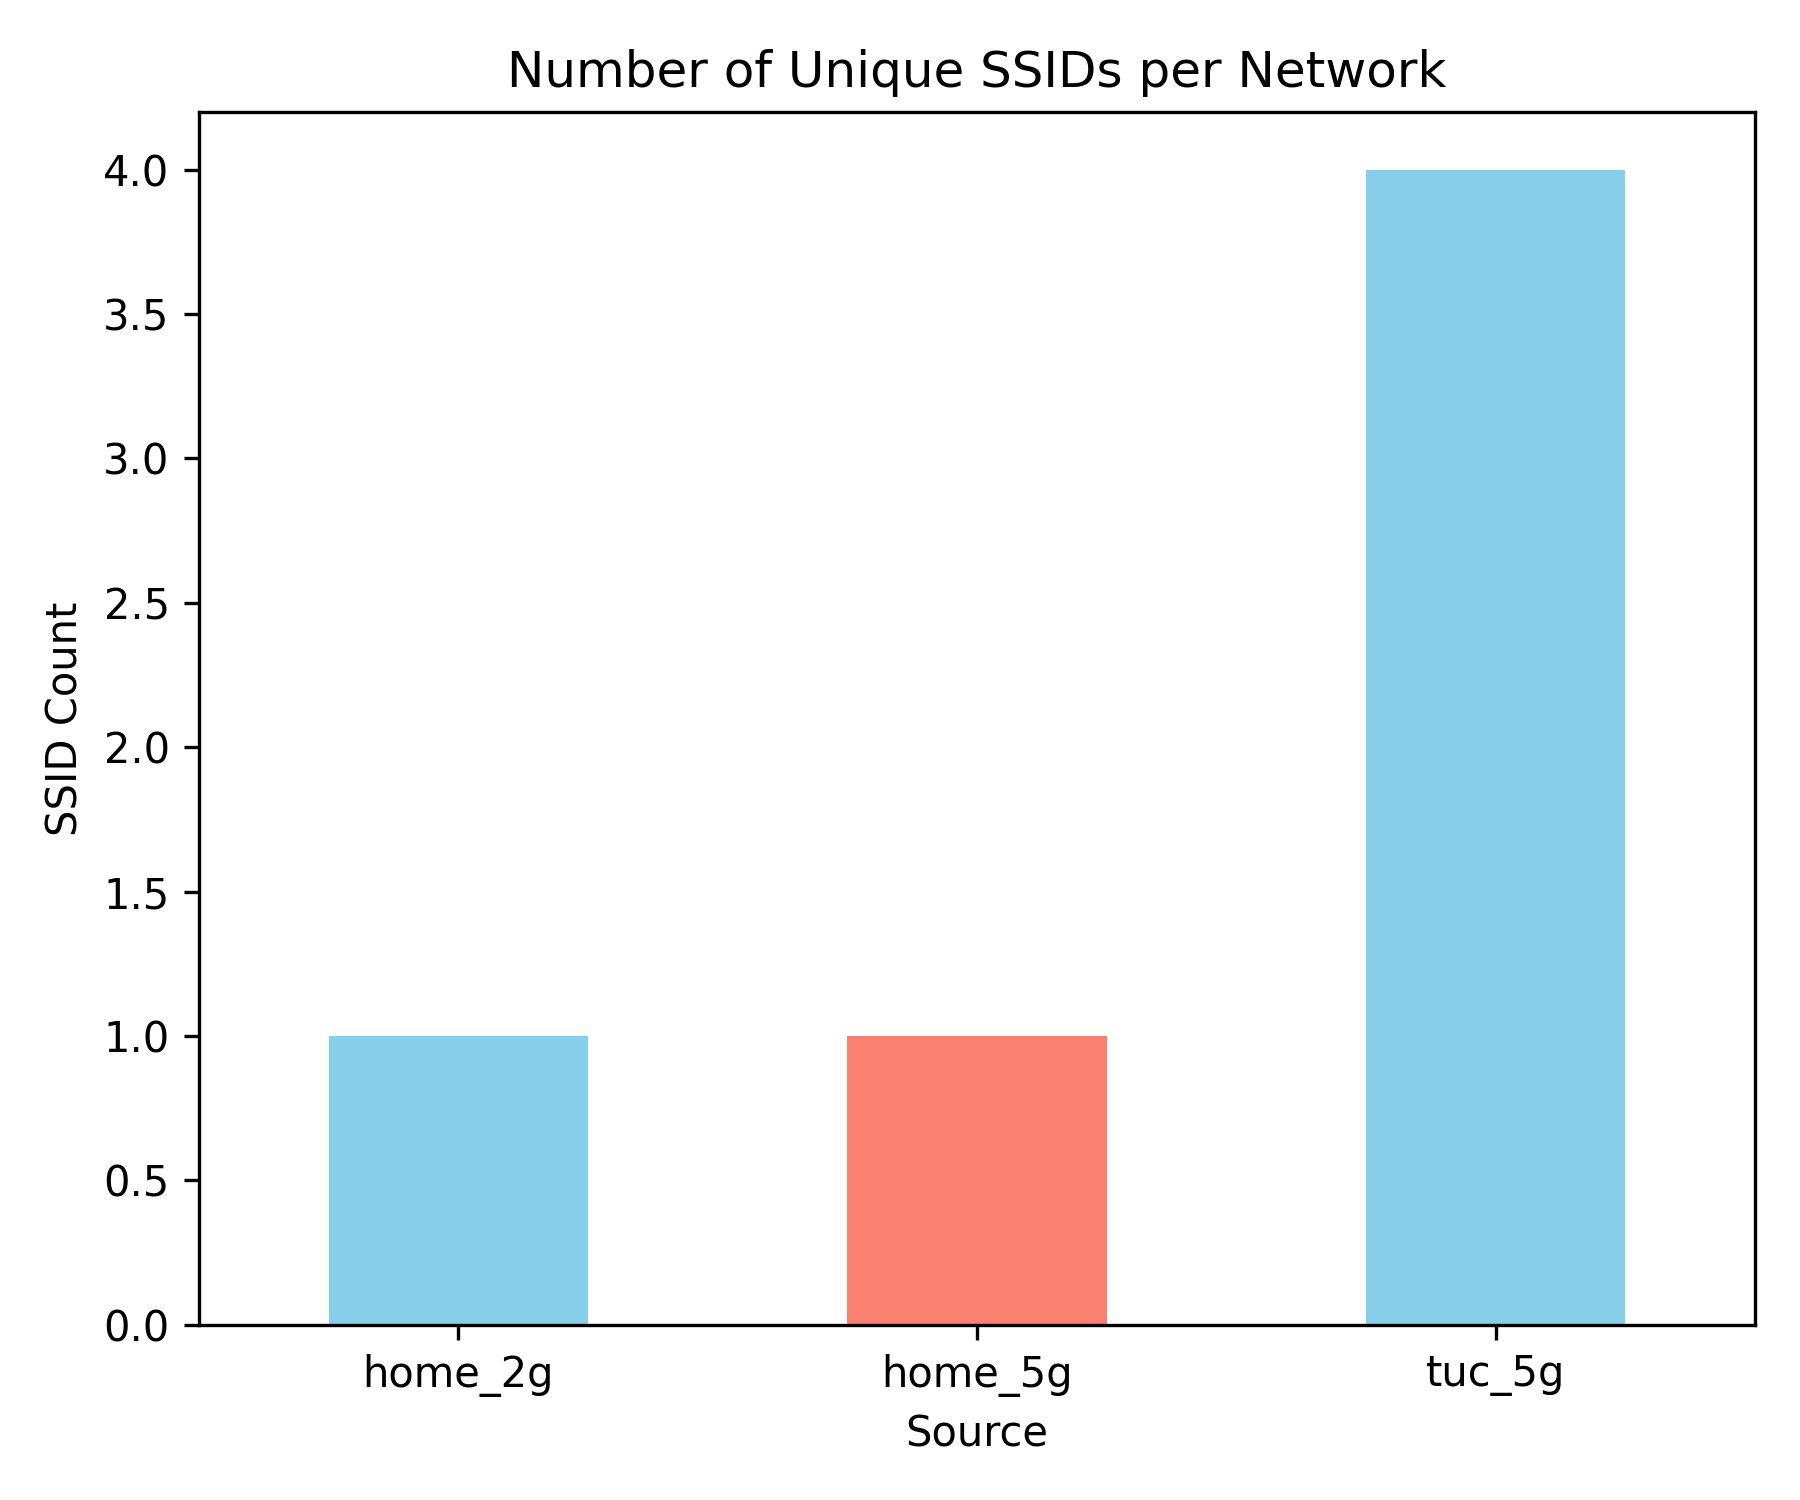
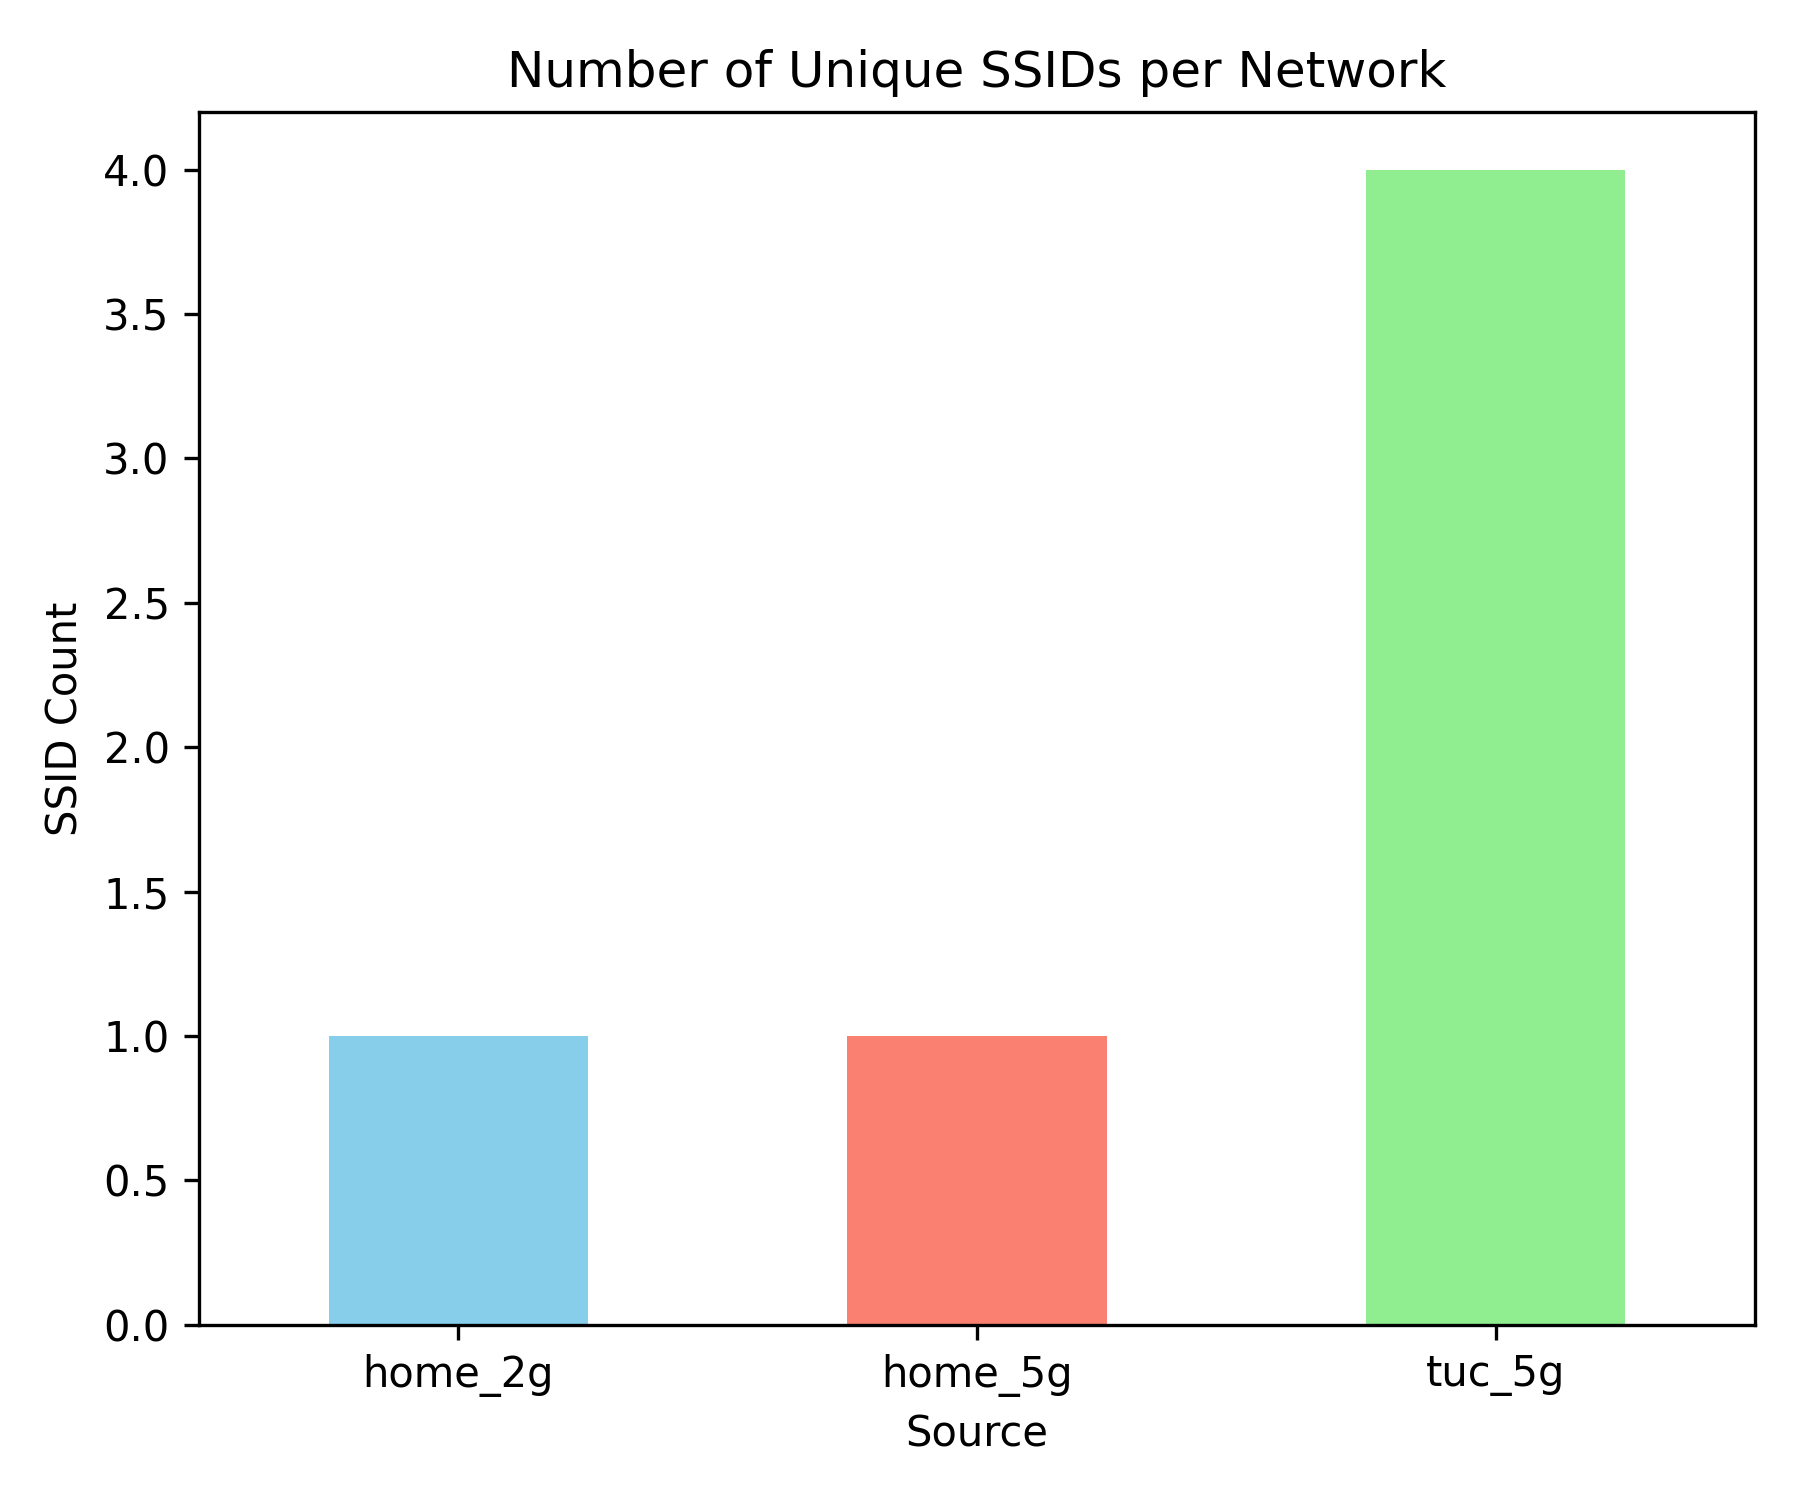
Added extra plot for density metrics

Changed region(s): [[0.7467, 0.092, 0.9022, 0.8893]]

diff --git a/wifi_density_analyzer.py b/wifi_density_analyzer.py
@@ -67,7 +67,7 @@ def plot_comparisons(df):
     # ---------- 1. SSID COUNT PER NETWORK ----------
     ssid_counts = df.groupby('Source')['SSID'].nunique()
     plt.figure(figsize=(6, 5))
-    ssid_counts.plot(kind='bar', color=['skyblue', 'salmon'])
+    ssid_counts.plot(kind='bar', color=['skyblue', 'salmon', 'lightgreen'])
     plt.title("Number of Unique SSIDs per Network")
     plt.ylabel("SSID Count")
     plt.xticks(rotation=0)
@@ -78,7 +78,7 @@ def plot_comparisons(df):
     # ---------- 2. UNIQUE PHY TYPES PER NETWORK ----------
     unique_phy_counts = df.groupby('Source')['PHY Type'].nunique()
     plt.figure(figsize=(6, 5))
-    unique_phy_counts.plot(kind='bar', color=['mediumseagreen', 'darkorange'])
+    unique_phy_counts.plot(kind='bar', color=['mediumseagreen', 'darkorange', 'cornflowerblue'])
     plt.title("Number of Unique PHY Types per Network")
     plt.ylabel("Unique PHY Types")
     plt.xticks(rotation=0)
@@ -103,15 +103,11 @@ def plot_comparisons(df):
         df_clean_signal.boxplot(column='Signal Strength (dBm)', by='Source', ax=axs[0], **boxplot_style)
         axs[0].set_title('Signal Strength per Network')
         axs[0].set_ylabel('dBm')
-        
-        # Add y-axis ticks every 1 dBm for clarity
         all_vals = df_clean_signal['Signal Strength (dBm)']
         ymin = int(np.floor(all_vals.min())) - 1
         ymax = int(np.ceil(all_vals.max())) + 1
         axs[0].set_yticks(np.arange(ymin, ymax + 1, 1))
         axs[0].grid(True, linestyle='--', alpha=0.6)
-
-        # Annotate median values
         medians = df_clean_signal.groupby('Source')['Signal Strength (dBm)'].median()
         for i, (source, median_val) in enumerate(medians.items()):
             axs[0].annotate(f"{median_val:.1f} dBm", xy=(i + 1, median_val), xytext=(0, -12),
@@ -138,8 +134,28 @@ def plot_comparisons(df):
     plt.savefig("plot_signal_noise_comparison.png", dpi=300)
     print("📊 Saved: plot_signal_noise_comparison.png")
 
+    # ---------- 4. SIGNAL STRENGTH PER SSID ----------
+    plt.figure(figsize=(10, 6))
+    df_ssid_signal = df[df['Signal Strength (dBm)'].notnull()]
+    if not df_ssid_signal.empty:
+        for source in df_ssid_signal['Source'].unique():
+            subset = df_ssid_signal[df_ssid_signal['Source'] == source]
+            plt.scatter(subset['SSID'], subset['Signal Strength (dBm)'], label=source, alpha=0.7)
+        plt.title("Signal Strength of Each SSID per Network")
+        plt.ylabel("Signal Strength (dBm)")
+        plt.xticks(rotation=45, ha='right')
+        plt.legend()
+        plt.tight_layout()
+        plt.grid(True, linestyle='--', alpha=0.6)
+
+        # Set y-axis ticks to finer granularity (e.g., 1 dBm steps)
+        ymin = int(df_ssid_signal['Signal Strength (dBm)'].min()) - 1
+        ymax = int(df_ssid_signal['Signal Strength (dBm)'].max()) + 1
+        plt.yticks(np.arange(ymin, ymax + 1, 1))
+        plt.savefig("plot_signal_strength_per_ssid.png", dpi=300)
+        print("📊 Saved: plot_signal_strength_per_ssid.png")
+
 # ------------------- MAIN -------------------
-# Load & process PCAPs
 cap_home = pyshark.FileCapture('/home/geoka/tuc/net2/home_5g.pcapng', display_filter="wlan.fc.type_subtype == 8")
 cap_home.close()
 df_home = export_wifi_data_to_csv(cap_home, 'home_5g_data', 'home_5g')
@@ -152,6 +168,5 @@ cap_home_2 = pyshark.FileCapture('/home/geoka/tuc/net2/home_2g.pcapng', display_
 cap_home_2.close()
 df_home_2 = export_wifi_data_to_csv(cap_home_2, 'home_2g_data', 'home_2g')
 
-# Combine and visualize
 combined_df = pd.concat([df_home, df_tuc, df_home_2], ignore_index=True)
 plot_comparisons(combined_df)
